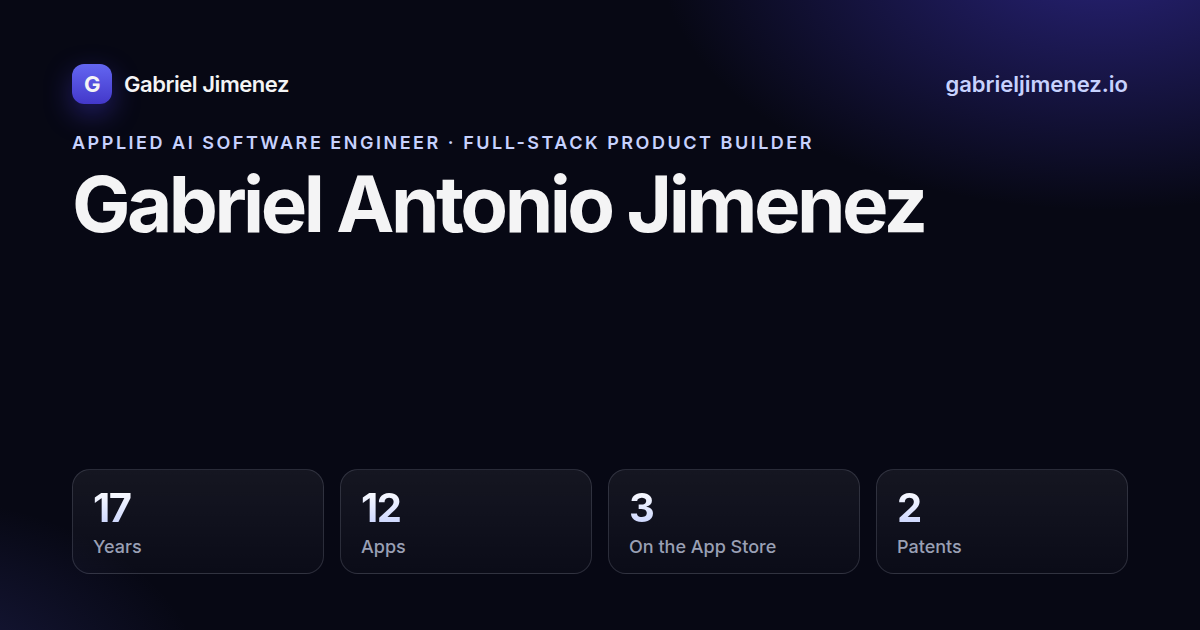
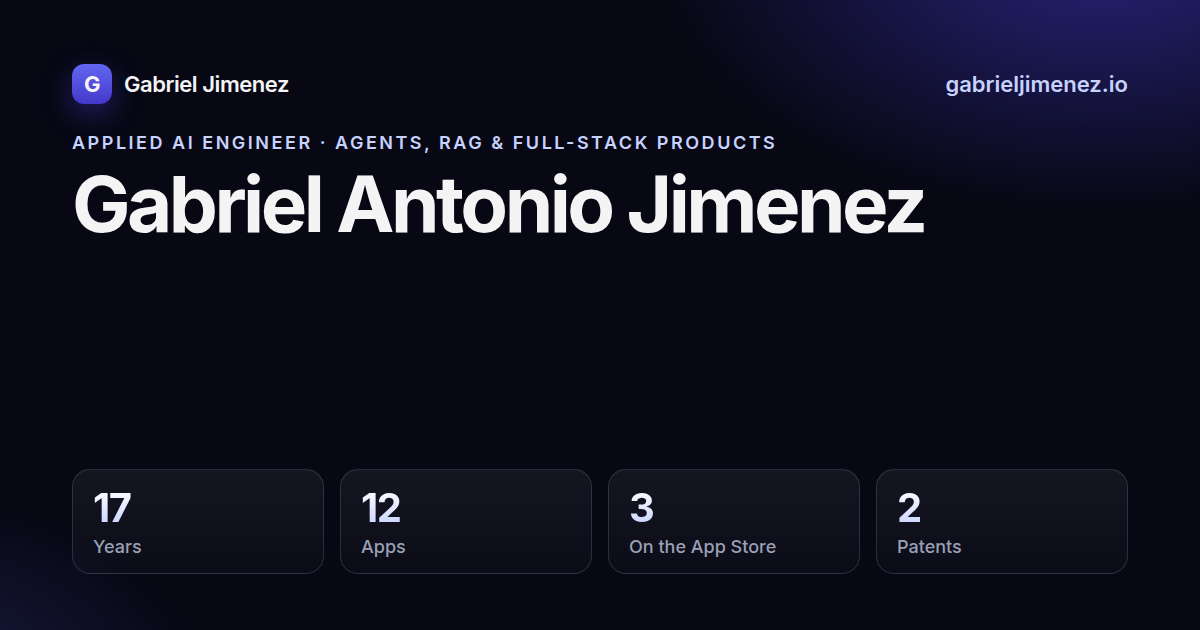
Lead the portfolio with hands-on AI engineering.
Put agentic loops, RAG, hooks, and production LLM work in the hero, a new capabilities section, and the social preview, tied only to products already described on the site.

Changed region(s): [[0.1542, 0.2111, 0.6783, 0.2413]]

diff --git a/index.html b/index.html
@@ -3,25 +3,25 @@
 <head>
   <meta charset="utf-8" />
   <meta name="viewport" content="width=device-width, initial-scale=1" />
-  <title>Gabriel Antonio Jimenez — Applied AI Software Engineer</title>
-  <meta name="description" content="Gabriel Antonio Jimenez is an applied AI software engineer and full-stack product builder. 17 years engineering, 12 mobile apps, 3 live on the App Store, and two granted U.S. patents." />
+  <title>Gabriel Antonio Jimenez — Applied AI Engineer</title>
+  <meta name="description" content="Gabriel Antonio Jimenez is a hands-on AI engineer: agentic loops, RAG pipelines, agent hooks, and LLM integration in production apps, plus full-stack products. Java/Spring, Python, TypeScript, React Native." />
   <meta name="author" content="Gabriel Antonio Jimenez" />
   <meta name="theme-color" content="#070814" />
   <link rel="canonical" href="https://gabrieljimenez.io/" />
   <meta property="og:title" content="Gabriel Antonio Jimenez — Applied AI Engineer &amp; Inventor" />
-  <meta property="og:description" content="Full-stack product builder. 17 years engineering, 12 mobile apps, 3 live on the App Store, and two granted U.S. patents." />
+  <meta property="og:description" content="Applied AI Engineer · Agents, RAG &amp; full-stack products. Agentic loops, retrieval pipelines, hooks, and LLM integration in production apps." />
   <meta property="og:type" content="website" />
   <meta property="og:url" content="https://gabrieljimenez.io/" />
   <meta property="og:site_name" content="Gabriel Antonio Jimenez" />
   <meta property="og:image" content="https://gabrieljimenez.io/og-image.png" />
   <meta property="og:image:width" content="1200" />
   <meta property="og:image:height" content="630" />
-  <meta property="og:image:alt" content="Gabriel Antonio Jimenez, Applied AI Software Engineer and full-stack product builder. 17 years, 12 apps, 3 on the App Store, 2 granted patents." />
+  <meta property="og:image:alt" content="Gabriel Antonio Jimenez, Applied AI Engineer. Agents, RAG, and full-stack products. 17 years, 12 apps, 3 on the App Store, 2 patents." />
   <meta name="twitter:card" content="summary_large_image" />
   <meta name="twitter:title" content="Gabriel Antonio Jimenez — Applied AI Engineer &amp; Inventor" />
-  <meta name="twitter:description" content="Full-stack product builder. 17 years engineering, 12 mobile apps, 3 live on the App Store, and two granted U.S. patents." />
+  <meta name="twitter:description" content="Applied AI Engineer · Agents, RAG &amp; full-stack products. Agentic loops, retrieval pipelines, hooks, and LLM integration in production apps." />
   <meta name="twitter:image" content="https://gabrieljimenez.io/og-image.png" />
-  <meta name="twitter:image:alt" content="Gabriel Antonio Jimenez, Applied AI Software Engineer and full-stack product builder. 17 years, 12 apps, 3 on the App Store, 2 granted patents." />
+  <meta name="twitter:image:alt" content="Gabriel Antonio Jimenez, Applied AI Engineer. Agents, RAG, and full-stack products. 17 years, 12 apps, 3 on the App Store, 2 patents." />
   <link rel="preconnect" href="https://fonts.googleapis.com" />
   <link rel="preconnect" href="https://fonts.gstatic.com" crossorigin />
   <link href="https://fonts.googleapis.com/css2?family=Inter:wght@400;500;600;700&display=swap" rel="stylesheet" />
@@ -36,6 +36,7 @@
       <button class="menu-toggle" type="button" aria-expanded="false" aria-controls="nav-menu">Menu</button>
       <nav>
         <ul class="nav-links" id="nav-menu">
+          <li><a href="#ai">AI engineering</a></li>
           <li><a href="#products">Products</a></li>
           <li><a href="#patents">Patents</a></li>
           <li><a href="#experience">Experience</a></li>
@@ -50,13 +51,14 @@
     <section class="hero" aria-labelledby="hero-title">
       <div class="hero-glow" aria-hidden="true"></div>
       <div class="wrap hero-copy">
-        <p class="eyebrow">Applied AI Software Engineer · Full-Stack Product Builder</p>
+        <p class="eyebrow">Applied AI Engineer · Agents, RAG &amp; full-stack products</p>
         <h1 id="hero-title">Gabriel Antonio Jimenez</h1>
         <p class="lede">
-          Hands-on builder of AI-powered products, led by <strong>Strategiz</strong>.
-          Co-inventor of two granted U.S. patents. 17 years shipping real software
-          across backend, frontend, and full three-tier systems — deepest in Java and Spring,
-          with Python, TypeScript, React, React Native, and Rust experience.
+          Hardcore, hands-on AI engineering: agentic loops (multi-agent and tool-calling),
+          RAG pipelines, agent hooks and orchestration, and LLM integration in production apps.
+          Full-stack product builder on the same work — deepest in Java and Spring, with Python,
+          TypeScript, and React Native. Co-inventor of two granted U.S. patents.
+          17 years shipping real software, led by <strong>Strategiz</strong>.
         </p>
         <div class="hero-actions">
           <a class="btn btn-primary" href="https://github.com/cuztomizer" rel="noopener noreferrer" target="_blank">GitHub</a>
@@ -64,13 +66,14 @@
           <a class="btn btn-ghost" href="#connect">Contact</a>
         </div>
         <ul class="chips" aria-label="Working stack">
+          <li class="hot">Agentic loops</li>
+          <li class="hot">RAG pipelines</li>
+          <li class="hot">Agent hooks</li>
           <li>Java / Spring</li>
           <li>Python</li>
           <li>TypeScript</li>
-          <li>React</li>
           <li>React Native</li>
           <li>Rust (experience)</li>
-          <li>AI-powered apps</li>
         </ul>
       </div>
     </section>
@@ -93,6 +96,66 @@
           <strong>2</strong>
           <span>Granted U.S. patents</span>
         </article>
+      </div>
+    </section>
+
+    <section id="ai">
+      <div class="wrap">
+        <p class="eyebrow">AI engineering</p>
+        <h2>Loops, RAG, hooks, and the models in the product.</h2>
+        <p class="section-intro">
+          Hands-on AI engineering inside shipped apps: multi-agent and tool-calling loops,
+          retrieval pipelines, agent hooks and orchestration, and LLM APIs in production.
+          The product examples below are the public ones already on this site.
+        </p>
+        <div class="ai-grid">
+          <article class="glass reveal">
+            <h3>Agentic loops &amp; orchestration</h3>
+            <p>
+              Multi-agent loops that plan, call tools, and come back with working output.
+              Tacticl is the public multi-agent system: a plain-language idea, plan approval, then working software.
+              Marketiz runs a brand’s marketing loop — strategy, content, and publishing — and waits for human approval before anything goes out.
+            </p>
+          </article>
+          <article class="glass reveal">
+            <h3>RAG / retrieval pipelines</h3>
+            <p>
+              Retrieval that puts the product’s own material in front of the model.
+              Ask Scout answers in plain English over Strategiz research.
+              travltime’s voice and text Q&amp;A keeps source links on the tour.
+              Years Ahead’s chat explains a saved plan and does not change it.
+            </p>
+          </article>
+          <article class="glass reveal">
+            <h3>Agent hooks &amp; tool calling</h3>
+            <p>
+              Hooks and tool calls inside those loops, so the model can act and then hand control back.
+              Tacticl’s build path runs from idea to plan approval to working software.
+              PointStax adds an optional Ask AI / voice concierge on top of the card math.
+            </p>
+          </article>
+          <article class="glass reveal">
+            <h3>LLM APIs &amp; prompt engineering</h3>
+            <p>
+              LLM integration in production apps, not a research bench.
+              Strategiz Ask Scout, PointStax Ask AI, Years Ahead’s explainer chat, and travltime’s narrated tours are the public examples.
+            </p>
+          </article>
+          <article class="glass reveal">
+            <h3>Many AI coding agents in parallel</h3>
+            <p>
+              Several coding agents working the same build.
+              Tacticl is the multi-agent software system on the public record: specialists take a plain-language idea through plan approval to working software.
+            </p>
+          </article>
+          <article class="glass reveal">
+            <h3>AI-assisted development</h3>
+            <p>
+              An AI-assisted development workflow used to ship the product portfolio,
+              including Strategiz and the other public apps.
+            </p>
+          </article>
+        </div>
       </div>
     </section>
 
@@ -444,7 +507,7 @@
               <a class="btn btn-ghost" href="https://patents.justia.com/inventor/gabriel-a-jimenez" rel="noopener noreferrer" target="_blank">Patents</a>
             </div>
             <p class="note">
-              Positioning: applied AI software engineer and full-stack product builder. Looking for coding IC roles
+              Positioning: hands-on AI engineer and full-stack product builder. Looking for coding IC roles
               that value architecture and shipped product depth — not pure people-management or security-leadership tracks.
             </p>
           </article>

diff --git a/css/styles.css b/css/styles.css
@@ -280,7 +280,11 @@ section { padding: 4.25rem 0; }
   background: #000;
 }
 
-.card-grid, .patent-grid, .split { display: grid; gap: 0.85rem; }
+.card-grid, .patent-grid, .split, .ai-grid { display: grid; gap: 0.85rem; }
+.ai-grid { grid-template-columns: 1fr 1fr; }
+.ai-grid .glass { padding: 1.2rem 1.25rem 1.1rem; }
+.ai-grid h3 { margin: 0 0 0.45rem; font-size: 1.15rem; font-weight: 640; }
+.ai-grid p { margin: 0; }
 .card-grid, .split { grid-template-columns: 1fr 1fr; }
 .patent-grid { grid-template-columns: 1fr; }
 .product-card, .patent, .split .glass, .timeline li { padding: 1.25rem 1.25rem 1.1rem; transition: border-color 0.2s ease, transform 0.2s ease, background 0.2s ease; }
@@ -415,7 +419,7 @@ section { padding: 4.25rem 0; }
 }
 
 @media (max-width: 980px) {
-  .metric-grid, .feature, .card-grid, .split, .contact { grid-template-columns: 1fr; }
+  .metric-grid, .feature, .card-grid, .split, .contact, .ai-grid { grid-template-columns: 1fr; }
   .shot-rail img { flex-basis: 46vw; width: 46vw; max-width: 210px; }
 }
 @media (max-width: 760px) {
